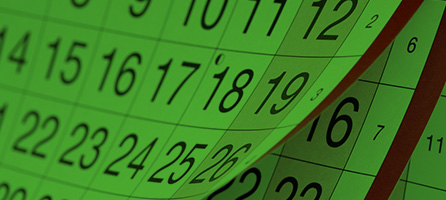
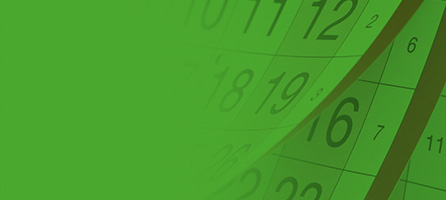
#9

diff --git a/src/resources/css/main.scss b/src/resources/css/main.scss
@@ -1842,11 +1842,11 @@ $grey_about: #5d5d5d;
       background-repeat:no-repeat;
       background-size: cover;
       .bg_hover {
-        background: linear-gradient(to left, rgba(0,0,0,0), $green_main);
+        
         height: 100%;
       }
       .bg_hover:hover {
-        background-color: $green_main;
+        background-color: rgba(75, 168, 46, .4);
       }
       h2 {
         padding: 40px 0 5px 40px;
